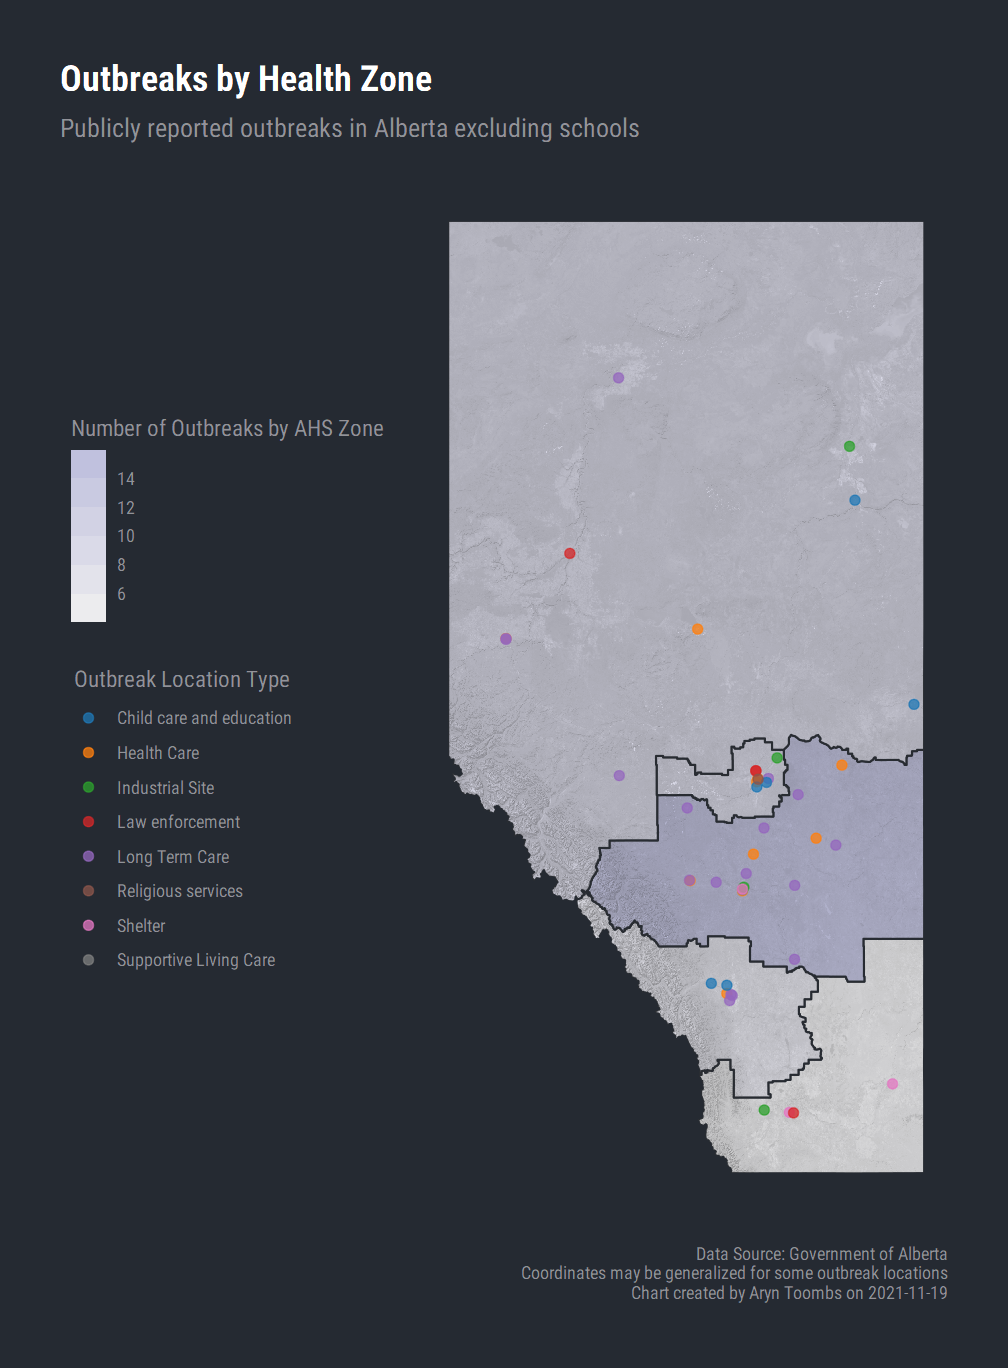
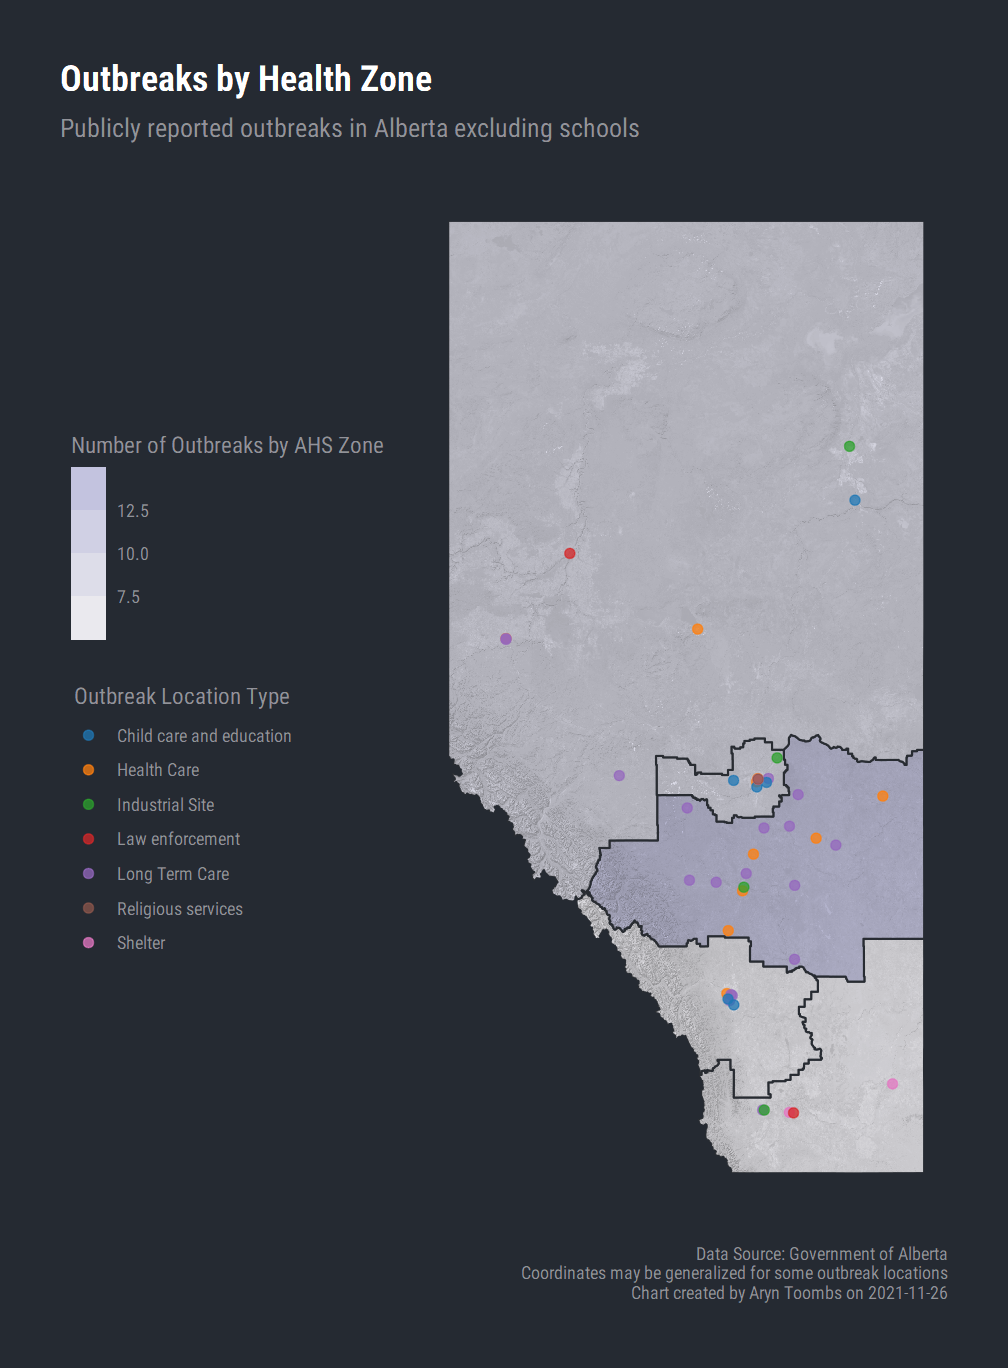
update

diff --git a/outbreaks/index.html b/outbreaks/index.html
@@ -184,7 +184,7 @@
       South Zone
     </div>
     <div class="row box-bottom justify-content-center">
-      <h4>4</h4>
+      <h4>5</h4>
     </div>
   </div>
   <div class="col-sm ml-1 mr-1">
@@ -192,7 +192,7 @@
       Central Zone
     </div>
     <div class="row box-bottom justify-content-center">
-      <h4>16</h4>
+      <h4>15</h4>
     </div>
   </div>
   <div class="col-sm ml-1 mr-1">
@@ -200,12 +200,12 @@
       North Zone
     </div>
     <div class="row box-bottom justify-content-center">
-      <h4>10</h4>
+      <h4>8</h4>
     </div>
   </div>
 </div>
 <div class="row mb-3 pr-1 pt-1 justify-content-end">
-  <p class="m-1"><i class="bi bi-info-circle-fill"></i> Covid-19 outbreaks (not including schools, see below) current as of Fri, Nov 19, 2021. AHS non-school outbreak data updated on Tuesdays and Fridays.</p>
+  <p class="m-1"><i class="bi bi-info-circle-fill"></i> Covid-19 outbreaks (not including schools, see below) current as of Fri, Nov 26, 2021. AHS non-school outbreak data updated on Tuesdays and Fridays.</p>
 </div>
   <div class="row pl-3">
     <h4 class="body-display">Outbreak Charts</h4>
